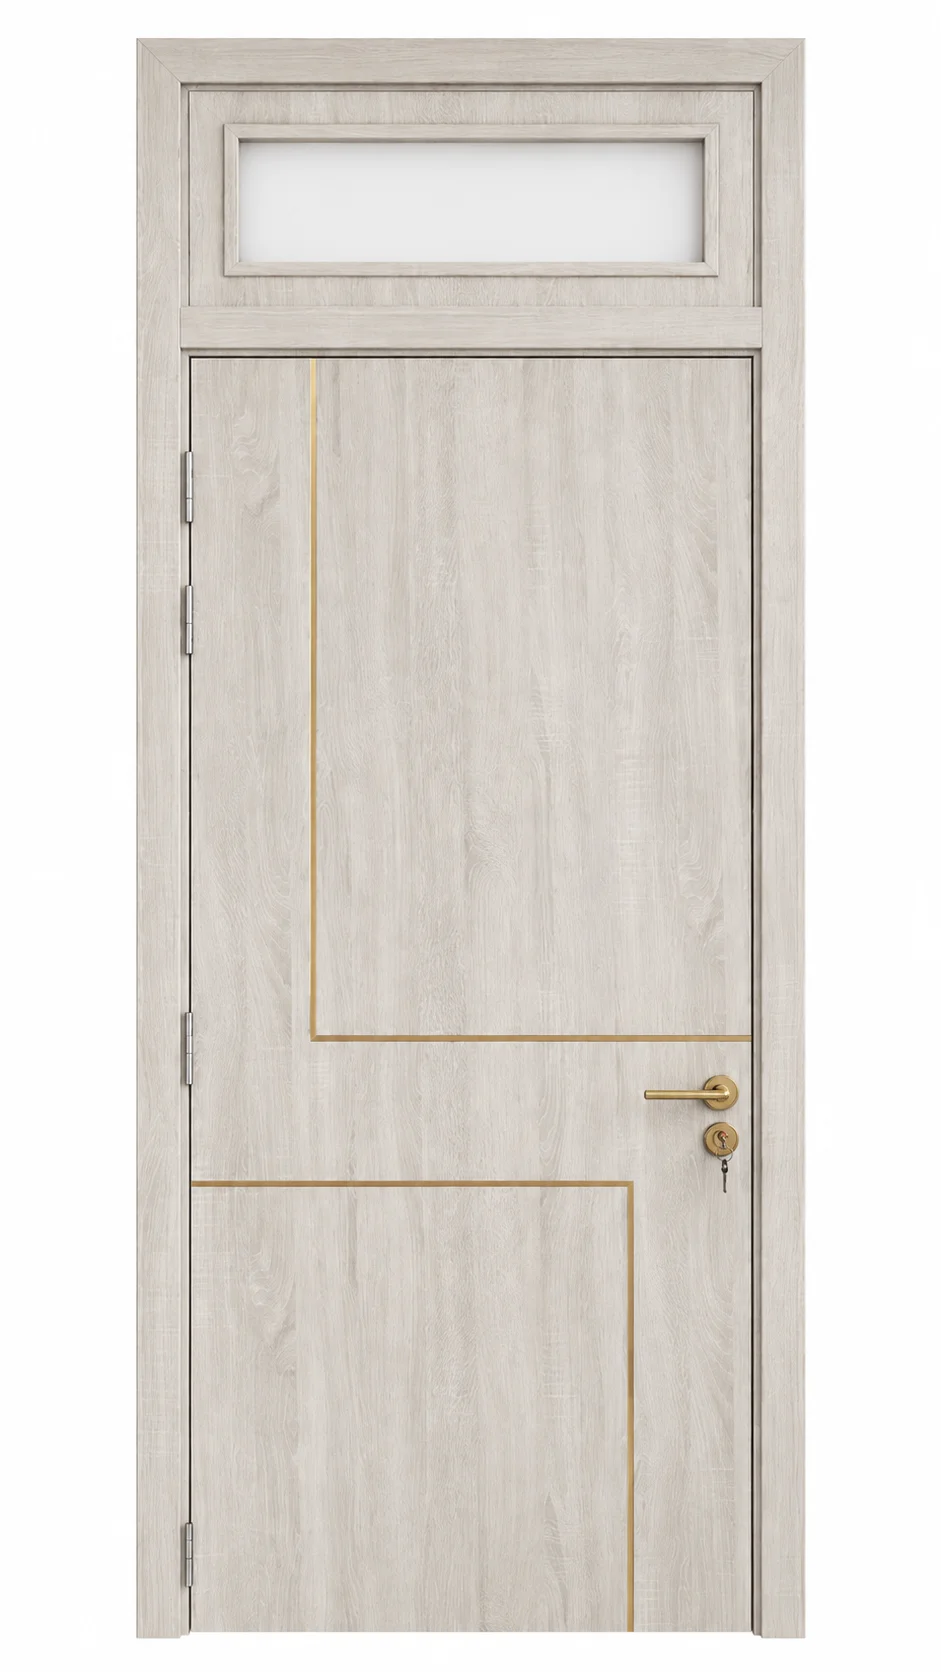
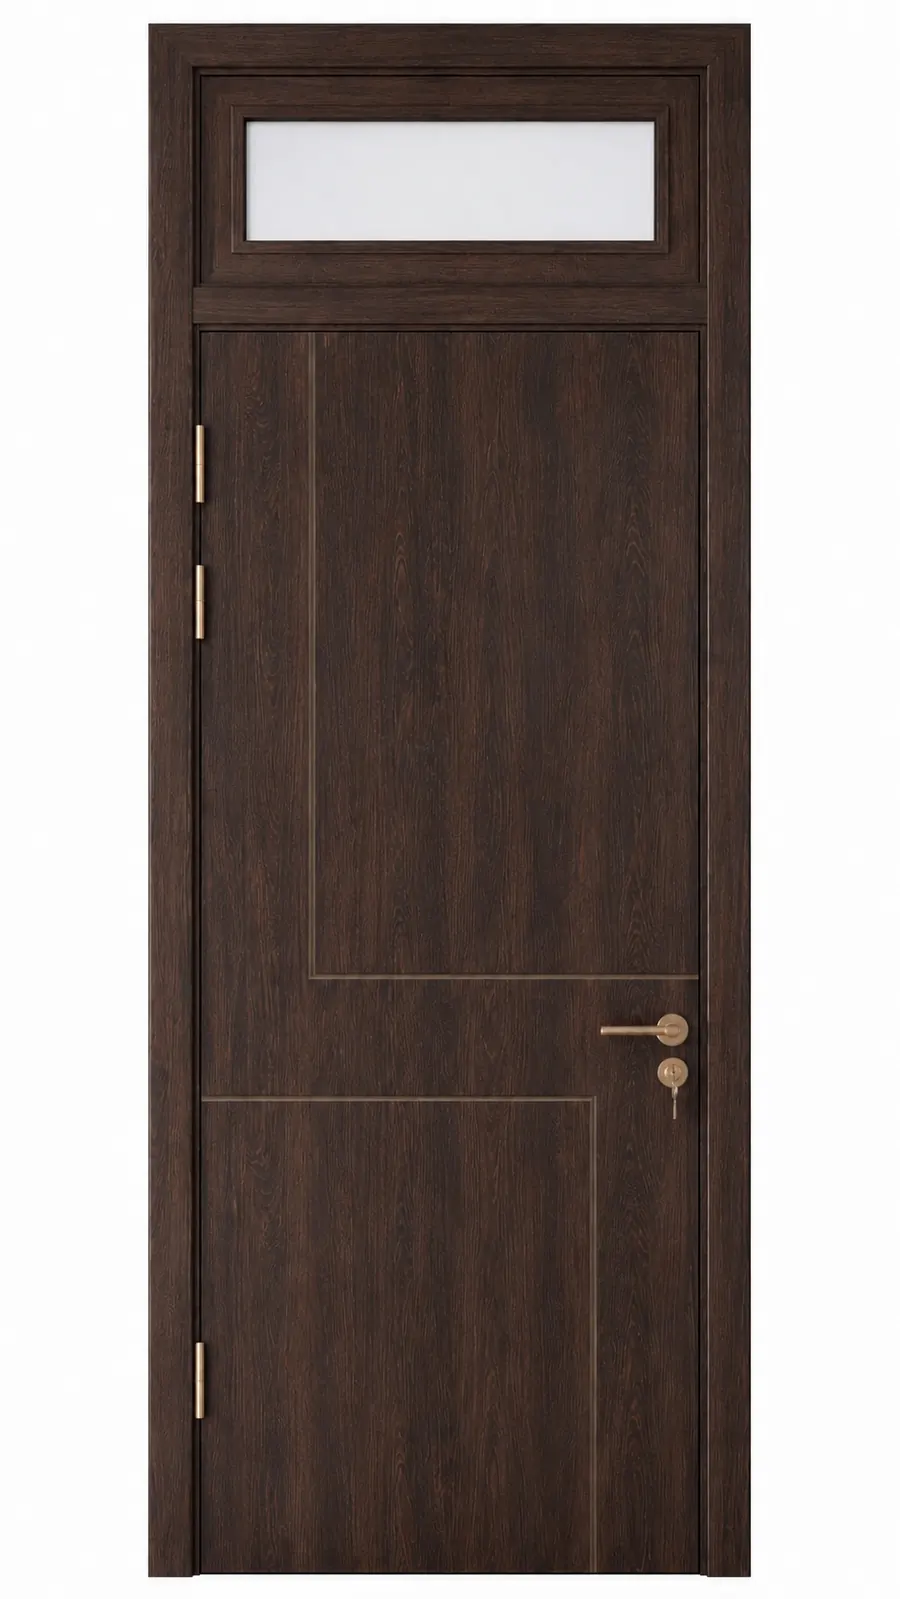
Add optimized fix door samples

diff --git a/src/lib/content.ts b/src/lib/content.ts
@@ -222,6 +222,62 @@ export const productCatalog: Product[] = [
     image: `${IMG}/products/cua-o-fix/cua-o-fix-01.webp`,
   },
   {
+    name: "Cửa Ô Fix",
+    code: "MV-OFIX-02",
+    tagline: "Đón sáng - Rộng rãi",
+    descr: "Ô kính fix cố định cung cấp thêm ánh sáng cho hành lang hay không gian khuất.",
+    image: `${IMG}/products/cua-o-fix/cua-o-fix-02.webp`,
+  },
+  {
+    name: "Cửa Ô Fix",
+    code: "MV-OFIX-03",
+    tagline: "Đón sáng - Rộng rãi",
+    descr: "Ô kính fix cố định cung cấp thêm ánh sáng cho hành lang hay không gian khuất.",
+    image: `${IMG}/products/cua-o-fix/cua-o-fix-03.webp`,
+  },
+  {
+    name: "Cửa Ô Fix",
+    code: "MV-OFIX-04",
+    tagline: "Đón sáng - Rộng rãi",
+    descr: "Ô kính fix cố định cung cấp thêm ánh sáng cho hành lang hay không gian khuất.",
+    image: `${IMG}/products/cua-o-fix/cua-o-fix-04.webp`,
+  },
+  {
+    name: "Cửa Ô Fix",
+    code: "MV-OFIX-05",
+    tagline: "Đón sáng - Rộng rãi",
+    descr: "Ô kính fix cố định cung cấp thêm ánh sáng cho hành lang hay không gian khuất.",
+    image: `${IMG}/products/cua-o-fix/cua-o-fix-05.webp`,
+  },
+  {
+    name: "Cửa Ô Fix",
+    code: "MV-OFIX-06",
+    tagline: "Đón sáng - Rộng rãi",
+    descr: "Ô kính fix cố định cung cấp thêm ánh sáng cho hành lang hay không gian khuất.",
+    image: `${IMG}/products/cua-o-fix/cua-o-fix-06.webp`,
+  },
+  {
+    name: "Cửa Ô Fix",
+    code: "MV-OFIX-07",
+    tagline: "Đón sáng - Rộng rãi",
+    descr: "Ô kính fix cố định cung cấp thêm ánh sáng cho hành lang hay không gian khuất.",
+    image: `${IMG}/products/cua-o-fix/cua-o-fix-07.webp`,
+  },
+  {
+    name: "Cửa Ô Fix",
+    code: "MV-OFIX-08",
+    tagline: "Đón sáng - Rộng rãi",
+    descr: "Ô kính fix cố định cung cấp thêm ánh sáng cho hành lang hay không gian khuất.",
+    image: `${IMG}/products/cua-o-fix/cua-o-fix-08.webp`,
+  },
+  {
+    name: "Cửa Ô Fix",
+    code: "MV-OFIX-09",
+    tagline: "Đón sáng - Rộng rãi",
+    descr: "Ô kính fix cố định cung cấp thêm ánh sáng cho hành lang hay không gian khuất.",
+    image: `${IMG}/products/cua-o-fix/cua-o-fix-09.webp`,
+  },
+  {
     name: "Cửa Vòm",
     code: "MV-VOM-01",
     tagline: "Mềm mại - Độc đáo",
